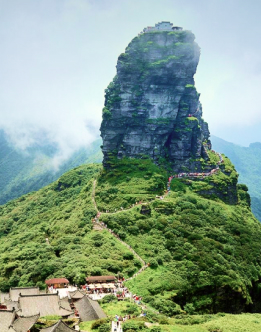
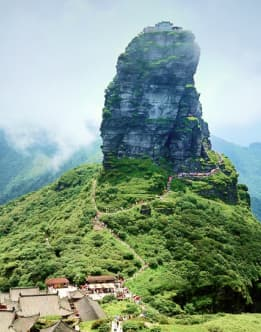
Верстка 1.1.

diff --git a/index.html b/index.html
@@ -10,7 +10,7 @@
     <header>
       <nav>
         <!-- Изменить логотип с png на svg -->
-        <a href=""><img src="" alt="Логотип" width="41" height="41" /></a>
+        <a href=""><img src="./images/logo.png" alt="Логотип" width="41" height="41" /></a>
         <ul>
           <li><a href="">Home</a></li>
           <li><a href="">Destinations</a></li>
@@ -19,7 +19,7 @@
         </ul>
         <ul>
           <li><button type="button">Login</button></li>
-          <li><button type="button">Register</button>></li>
+          <li><button type="button">Register</button></li>
         </ul>
       </nav>
     </header>
@@ -36,11 +36,21 @@
         </ul>
         <button type="button">Explore</button>
         <!-- Изменить изображение с png на svg -->
-        <img src="" alt="" width="687" height="654" />
+        <img
+          src="./images/explore-and-travel.png"
+          alt="explore and travel"
+          width="687"
+          height="654"
+        />
       </section>
       <section>
         <!-- Изменить изображение с png на svg -->
-        <img src="" alt="" width="659" height="534" />
+        <img
+          src="./images/explore-the-world.png"
+          alt="explore the world"
+          width="659"
+          height="534"
+        />
         <h2>A new way to explore the world</h2>
         <p>
           For decades travellers have reached for Lonely Planet books when looking to plan and
@@ -54,22 +64,22 @@
         <a href="">View all</a>
         <ul>
           <li>
-            <img src="" alt="" width="261" height="332" />
+            <img src="./images/raja-ampat.jpg" alt="Raja Ampat" width="261" height="332" />
             <h3>Raja Ampat</h3>
             <p>Indonesia</p>
           </li>
           <li>
-            <img src="" alt="" width="261" height="332" />
+            <img src="./images/fanjingshan.jpg" alt="Fanjingshan" width="261" height="332" />
             <h3>Fanjingshan</h3>
             <p>China</p>
           </li>
           <li>
-            <img src="" alt="" width="261" height="332" />
+            <img src="./images/vevey.jpg" alt="Switzerland" width="261" height="332" />
             <h3>Vevey</h3>
             <p>Switzerland</p>
           </li>
           <li>
-            <img src="" alt="" width="261" height="332" />
+            <img src="./images/skadar.jpg" alt="Skadar" width="261" height="332" />
             <h3>Skadar</h3>
             <p>Montenegro</p>
           </li>
@@ -82,7 +92,7 @@
           Android) is the ultimate resource before and during a trip.
         </p>
         <a href="" download>Download</a>
-        <img src="" alt="" width="599" height="542" />
+        <img src="./images/guides.png" alt="Guides by Thousand Sunny" width="599" height="542" />
       </section>
       <section>
         <h2>Testimonials</h2>
@@ -93,7 +103,7 @@
         </p>
         <h3>Edward Newgate</h3>
         <p>Founder Circle</p>
-        <img src="" alt="" width="384" height="491" />
+        <img src="./images/edward-newgate.jpg" alt="Edward Newgate" width="384" height="491" />
         <button type="button">&lt;</button>
         <button type="button">&gt;</button>
       </section>
@@ -102,19 +112,34 @@
         <a href="View all"></a>
         <ul>
           <li>
-            <img src="" alt="" width="261" height="231" />
+            <img
+              src="./images/trending-stories/taking-a-healing.jpg"
+              alt="taking a healing holiday"
+              width="261"
+              height="231"
+            />
             <h3>The many benefits of taking a healing holiday</h3>
             <p>‘Helaing holidays’ are on the rise tohelp maximise your health and happines...</p>
             <a href="">Read more</a>
           </li>
           <li>
-            <img src="" alt="" width="261" height="231" />
+            <img
+              src="./images/trending-stories/kyoto-restaurant.jpg"
+              alt="Kyoto restaurant"
+              width="261"
+              height="231"
+            />
             <h3>The best Kyoto restaurant to try Japanese food</h3>
             <p>From tofu to teahouses, here’s our guide to Kyoto’s best restaurants to visit...</p>
             <a href="">Read more</a>
           </li>
           <li>
-            <img src="" alt="" width="261" height="231" />
+            <img
+              src="./images/trending-stories/chichen-itza.jpg"
+              alt="Chichen Itza"
+              width="261"
+              height="231"
+            />
             <h3>Skip Chichen Itza and head to this remote Yucatan</h3>
             <p>
               It’s remote and challenging to get, but braving the jungle and exploring these ruins
@@ -123,7 +148,12 @@
             <a href="">Read more</a>
           </li>
           <li>
-            <img src="" alt="" width="261" height="231" />
+            <img
+              src="./images/trending-stories/surf’s-up.jpg"
+              alt="Surf’s up"
+              width="261"
+              height="231"
+            />
             <h3>Surf’s up at these beginner spots around the world</h3>
             <p>
               If learning to surf has in on your to- do list for a while, the good news is: it’s
@@ -136,7 +166,7 @@
     </main>
     <footer>
       <!-- Изменить логотип с png на svg -->
-      <a href=""><img src="" alt="Логотип" width="41" height="41" /></a>
+      <a href=""><img src="./images/logo.png" alt="Логотип" width="41" height="41" /></a>
       <p>
         Plan and book your perfect trip with expert advice, travel tips destination information from
         us
